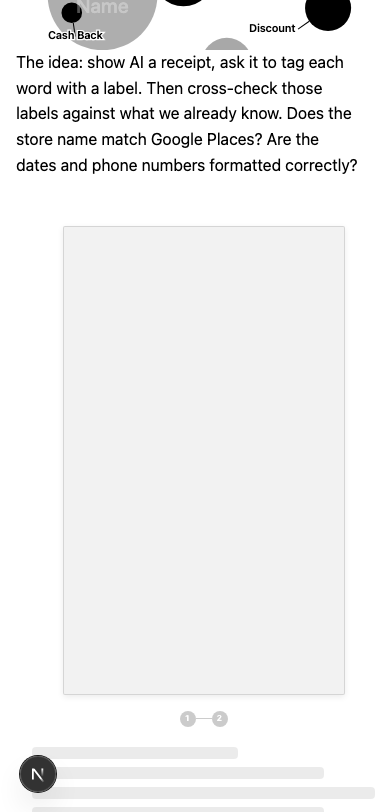
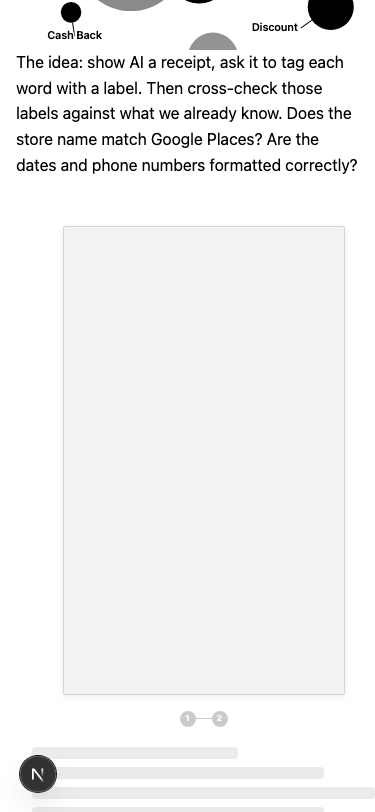
refactor: bake lazy loading into WithinReceiptVerification
Move lazy data fetching into the component itself using a separate
useInView observer with triggerOnce + rootMargin: 200px. The component
now shows its own ReceiptFlowLoadingShell until near the viewport,
then fetches data. This eliminates the LazyMountInView + FigurePlaceholder
wrapper in receipt.tsx, ensuring the loading shell and loaded state share
the same container and layout — no spacing differences or pop-in.

Changed region(s): [[0.1173, 0.0, 0.792, 0.0616], [0.792, 0.0, 0.8507, 0.0308], [0.9093, 0.0, 0.9387, 0.0308]]

diff --git a/portfolio/components/ui/Figures/WithinReceiptVerification/index.tsx b/portfolio/components/ui/Figures/WithinReceiptVerification/index.tsx
@@ -1,4 +1,4 @@
-import React, { useEffect, useMemo, useRef, useState } from "react";
+import React, { useCallback, useEffect, useMemo, useRef, useState } from "react";
 import { useInView } from "react-intersection-observer";
 import { api } from "../../../../services/api";
 import {
@@ -419,10 +419,26 @@ const RightPanel: React.FC<{
 // ---------------------------------------------------------------------------
 
 const WithinReceiptVerification: React.FC = () => {
-  const { ref, inView } = useInView({
+  // Lazy-load observer: triggers data fetch when near the viewport.
+  // triggerOnce so we only fetch once; rootMargin prefetches 200px early.
+  const { ref: lazyRef, inView: nearViewport } = useInView({
+    triggerOnce: true,
+    rootMargin: "200px",
+  });
+
+  // Animation observer: controls animation playback while visible.
+  const { ref: animRef, inView } = useInView({
     threshold: 0.3,
     triggerOnce: false,
   });
+
+  // Merge both refs onto the container div
+  const ref = useRef<HTMLDivElement | null>(null);
+  const setRefs = useCallback((node: HTMLDivElement | null) => {
+    ref.current = node;
+    lazyRef(node);
+    animRef(node);
+  }, [lazyRef, animRef]);
 
   const [receipts, setReceipts] = useState<WithinReceiptVerificationReceipt[]>([]);
   const [error, setError] = useState<string | null>(null);
@@ -452,8 +468,9 @@ const WithinReceiptVerification: React.FC = () => {
   receiptsRef.current = receipts;
   const currentIndexRef = useRef(0);
 
-  // Fetch data
+  // Fetch data only once the component is near the viewport
   useEffect(() => {
+    if (!nearViewport) return;
     const fetchData = async () => {
       try {
         const response = await api.fetchWithinReceiptVerification();
@@ -468,7 +485,7 @@ const WithinReceiptVerification: React.FC = () => {
       }
     };
     fetchData();
-  }, []);
+  }, [nearViewport]);
 
   const currentReceipt = receipts[currentIndex];
 
@@ -653,9 +670,9 @@ const WithinReceiptVerification: React.FC = () => {
     );
   }, [showFlyingReceipt, flyingReceipt, formatSupport]);
 
-  if (loading) {
+  if (!nearViewport || loading) {
     return (
-      <div ref={ref} className={styles.container}>
+      <div ref={setRefs} className={styles.container}>
         <ReceiptFlowLoadingShell
           layoutVars={LAYOUT_VARS}
           variant="within"
@@ -666,7 +683,7 @@ const WithinReceiptVerification: React.FC = () => {
 
   if (error) {
     return (
-      <div ref={ref} className={styles.container}>
+      <div ref={setRefs} className={styles.container}>
         <ReceiptFlowLoadingShell
           layoutVars={LAYOUT_VARS}
           variant="within"
@@ -679,7 +696,7 @@ const WithinReceiptVerification: React.FC = () => {
 
   if (receipts.length === 0) {
     return (
-      <div ref={ref} className={styles.container}>
+      <div ref={setRefs} className={styles.container}>
         <ReceiptFlowLoadingShell
           layoutVars={LAYOUT_VARS}
           variant="within"
@@ -693,7 +710,7 @@ const WithinReceiptVerification: React.FC = () => {
   const nextReceipt = receipts[nextIndex];
 
   return (
-    <div ref={ref} className={styles.container}>
+    <div ref={setRefs} className={styles.container}>
       <ReceiptFlowShell
         layoutVars={LAYOUT_VARS}
         isTransitioning={isTransitioning}

diff --git a/portfolio/pages/receipt.tsx b/portfolio/pages/receipt.tsx
@@ -317,12 +317,7 @@ M1LK 2%           1    $4.4g`}</code>
       </p>
 
       <ClientOnly>
-        <LazyMountInView
-          minHeight={480}
-          placeholder={<FigurePlaceholder variant="receiptFlow" />}
-        >
-          <WithinReceiptVerification />
-        </LazyMountInView>
+        <WithinReceiptVerification />
       </ClientOnly>
 
       <p>
